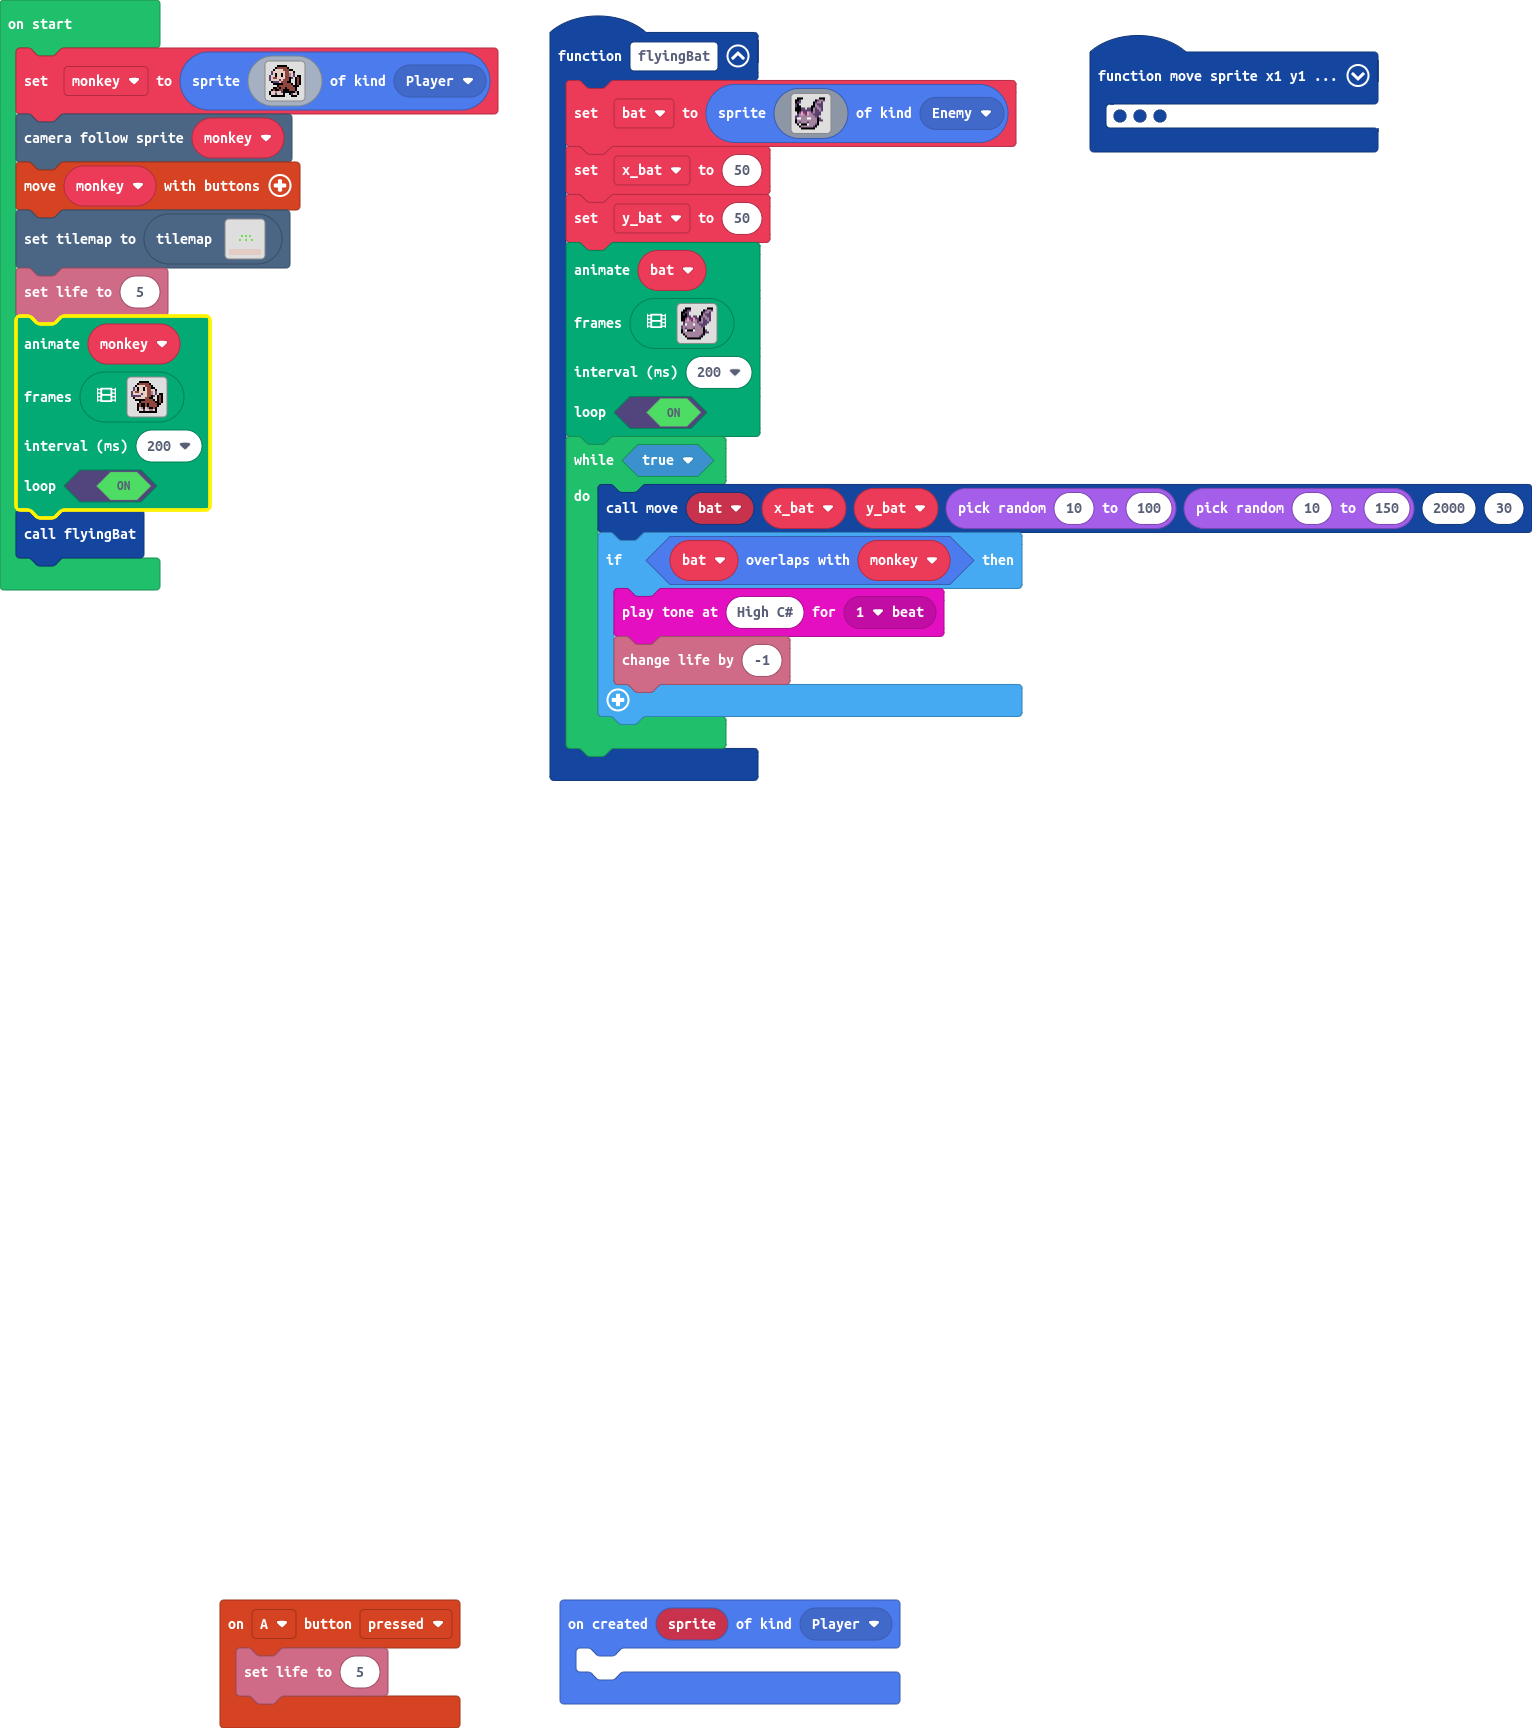
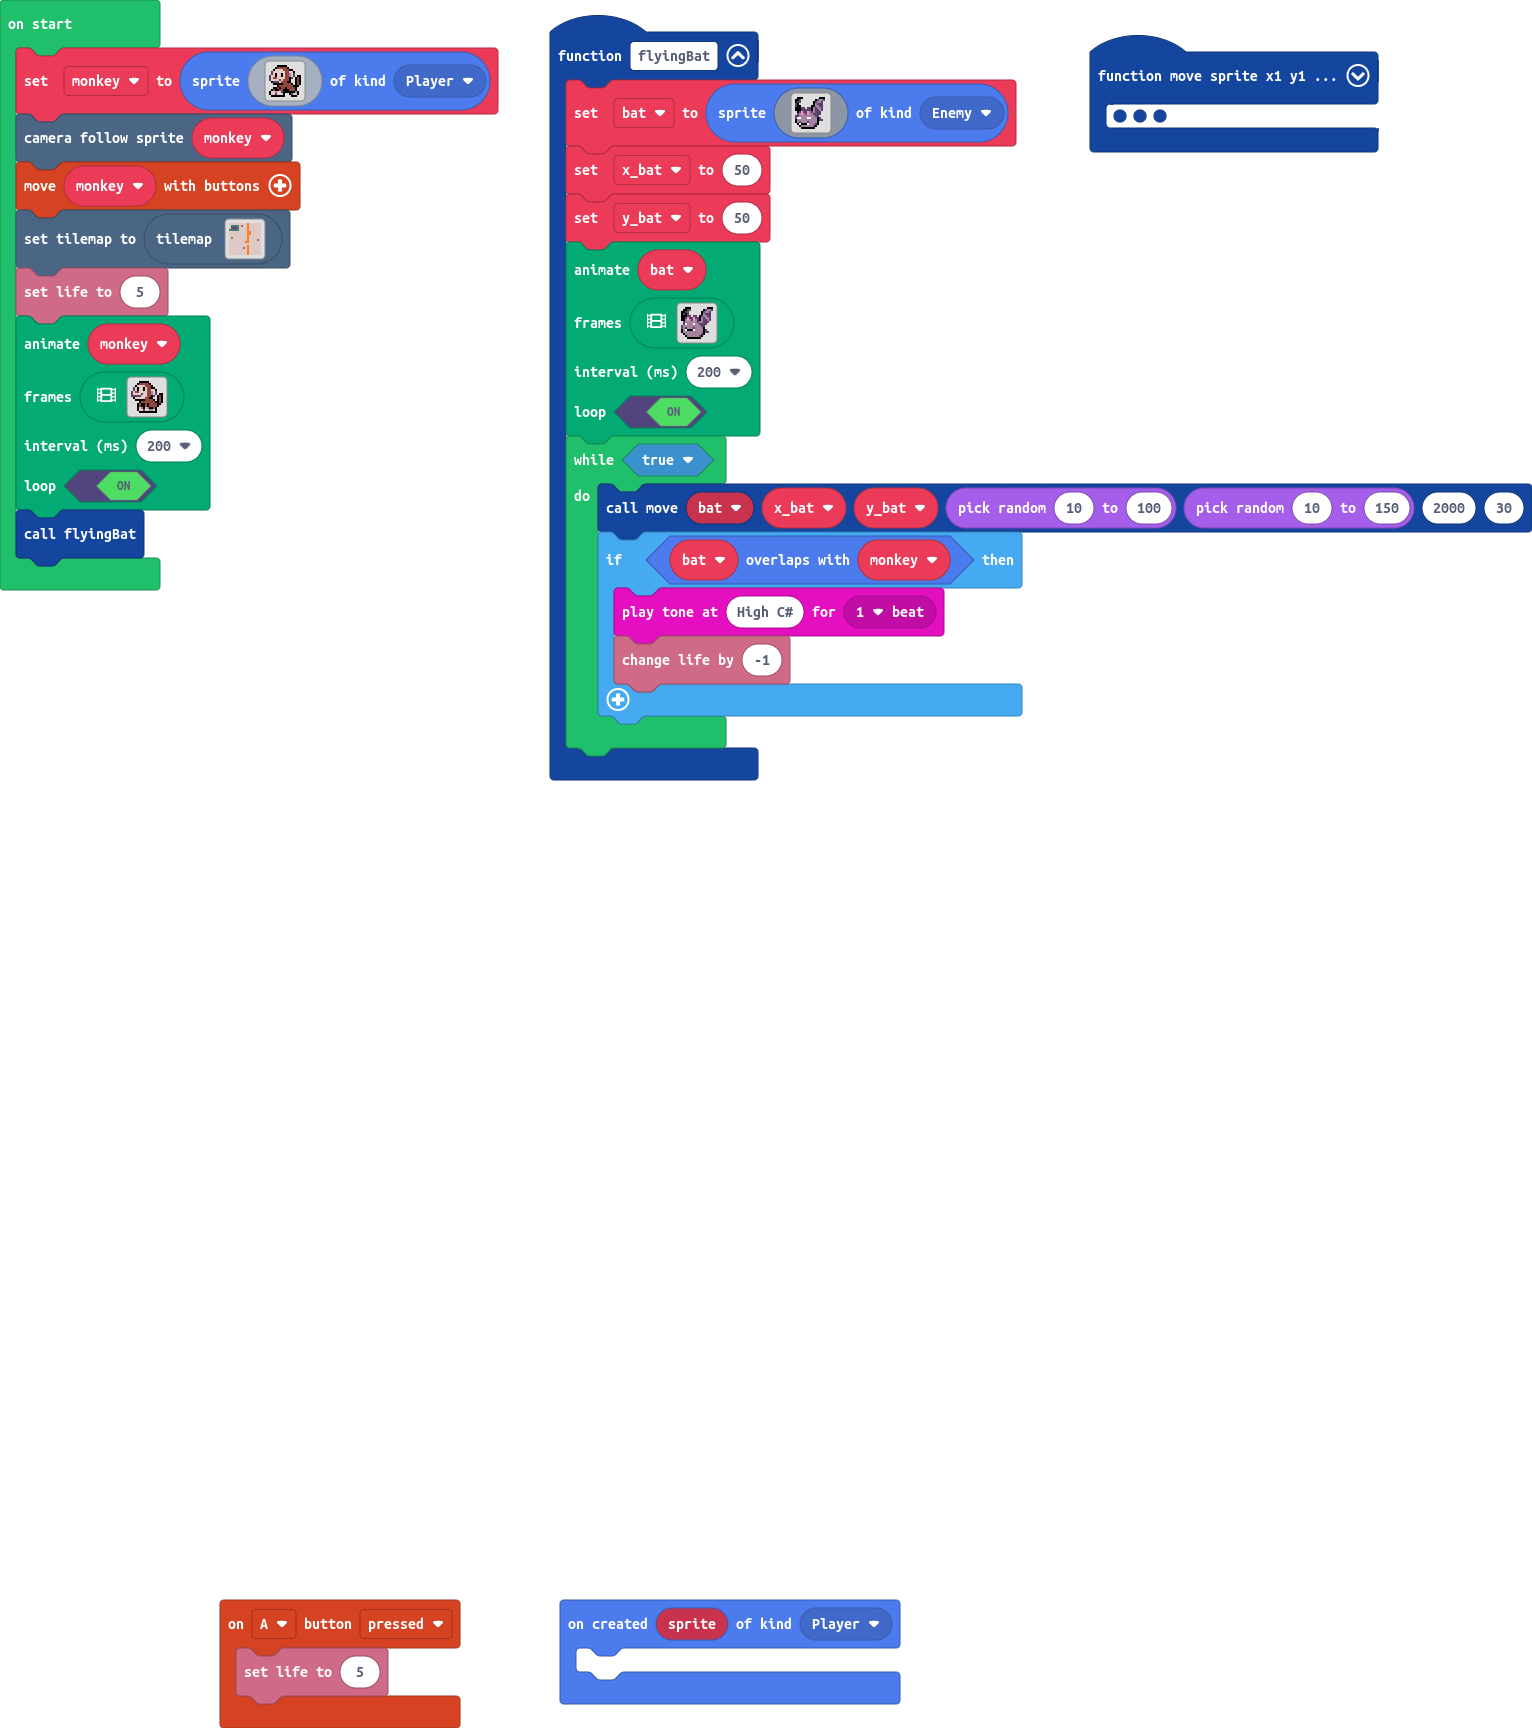
Change start tilemap

diff --git a/tilemap.g.ts b/tilemap.g.ts
@@ -121,25 +121,6 @@ namespace myTiles {
 . . . . . . . . . . . . . . . . 
 . . . . . . . . . . . . . . . . 
 `, [myTiles.transparency16], TileScale.Sixteen);
-            case "level2":
-            case "level2":return tiles.createTilemap(hex`1000100000000000000000000000000000000000000000000000000000000000000000000000000000000000000000000000000000000000000000000000000000000000000000000000000000000000000000000000000000000000000000000000000000000000000001000100010000000000000000000000000000000000000000000000000000010000010000010000000000000000000000000000000000000000000000000000000000000000000000000000000000000000000000000000000000000000000000000000000000000000020202020202020202020202020202020202020202020202020202020202020202020202020202020202020202020202`, img`
-. . . . . . . . . . . . . . . . 
-. . . . . . . . . . . . . . . . 
-. . . . . . . . . . . . . . . . 
-. . . . . . . . . . . . . . . . 
-. . . . . . . . . . . . . . . . 
-. . . . . . . . . . . . . . . . 
-. . . . . . . . . . . . . . . . 
-. . . . . . . . . . . . . . . . 
-. . . . . . . . . . . . . . . . 
-. . . . . . . . . . . . . . . . 
-. . . . . . . . . . . . . . . . 
-. . . . . . . . . . . . . . . . 
-. . . . . . . . . . . . . . . . 
-. . . . . . . . . . . . . . . . 
-. . . . . . . . . . . . . . . . 
-. . . . . . . . . . . . . . . . 
-`, [myTiles.transparency16,myTiles.tile1,sprites.castle.tilePath5], TileScale.Sixteen);
             case "level8":
             case "level8":return tiles.createTilemap(hex`1000100000000000000000000000000000000000000000000000000000000000000000000000000000000000000000000000000000000000000000000000000000000000000000000000000000000000000000000000000000000000000000000000000000000000000000000000000000000000000000000000000000000000000000000000000000000000000000000000000000000000000000000000000000000000000000000000000000000000000000000000000000000000000000000000000000000000000000000000000000000000000000000000000000000000000000000000000000000000000000000000000000000000000000000000000000000000`, img`
 . . . . . . . . . . . . . . . . 
@@ -216,6 +197,44 @@ namespace myTiles {
 . . . . . . . . . . . . . . . . 
 . . . . . . . . . . . . . . . . 
 `, [myTiles.transparency16], TileScale.Sixteen);
+            case "level12":
+            case "level12":return tiles.createTilemap(hex`1000100000000000000000000000000000000000000000000000000000000000000000000000000000000000000000000000000000000000000000000000000000000000000000000000000000000000000000000000000000000000000000000000000000000000000000000000000000000000000000000000000000000000000000000000000000000000000000000000000000000000000000000000000000000000000000000000000000000000000000000000000000000000000000000000000000000000000000000000000000000000000000000000000000000000000000000000000000000000000000000000000000000000000000000000000000000000`, img`
+. . . . . . . . . . . . . . . . 
+. . . . . . . . . . . . . . . . 
+. . . . . . . . . . . . . . . . 
+. . . . . . . . . . . . . . . . 
+. . . . . . . . . . . . . . . . 
+. . . . . . . . . . . . . . . . 
+. . . . . . . . . . . . . . . . 
+. . . . . . . . . . . . . . . . 
+. . . . . . . . . . . . . . . . 
+. . . . . . . . . . . . . . . . 
+. . . . . . . . . . . . . . . . 
+. . . . . . . . . . . . . . . . 
+. . . . . . . . . . . . . . . . 
+. . . . . . . . . . . . . . . . 
+. . . . . . . . . . . . . . . . 
+. . . . . . . . . . . . . . . . 
+`, [myTiles.transparency16], TileScale.Sixteen);
+            case "level0":
[1 lines of base64/hex data omitted]
+. . . . . . . . . . . . . . . . 
+. . . . . . . . . . . . . . . . 
+. . . . . . . . . . . . . . . . 
+. . . . . . . . . . . . . . . . 
+. . . . . . . . . . . . . . . . 
+. . . . . . . . . . . . . . . . 
+. . . . . . . . . . . . . . . . 
+. . . . . . . . . . . . . . . . 
+. . . . . . . . . . . . . . . . 
+. . . . . . . . . . . . . . . . 
+. . . . . . . . . . . . . . . . 
+. . . . . . . . . . . . . . . . 
+. . . . . . . . . . . . . . . . 
+. . . . . . . . . . . . . . . . 
+. . . . . . . . . . . . . . . . 
+. . . . . . . . . . . . . . . . 
+`, [myTiles.transparency16,sprites.dungeon.chestClosed,sprites.dungeon.floorLight2,sprites.dungeon.greenOuterNorthWest,sprites.dungeon.greenOuterNorth0,sprites.dungeon.greenOuterNorthEast,sprites.dungeon.greenOuterSouthWest,sprites.dungeon.greenOuterEast0,sprites.dungeon.greenOuterSouth0,sprites.dungeon.greenOuterSouthEast,sprites.dungeon.hazardLava0,sprites.dungeon.darkGroundCenter], TileScale.Sixteen);
         }
         return null;
     })

diff --git a/main.ts b/main.ts
@@ -3,6 +3,9 @@ enum ActionKind {
     Idle,
     Jumping
 }
+namespace SpriteKind {
+    export const Text = SpriteKind.create()
+}
 function flyingBat () {
     bat = sprites.create(img`
         . f f f . . . . . . . . f f f . 
@@ -152,7 +155,7 @@ monkey = sprites.create(img`
     `, SpriteKind.Player)
 scene.cameraFollowSprite(monkey)
 controller.moveSprite(monkey)
-tiles.setCurrentTilemap(tilemap`level2`)
+tiles.setCurrentTilemap(tilemap`level0`)
 info.setLife(5)
 animation.runImageAnimation(
 monkey,
